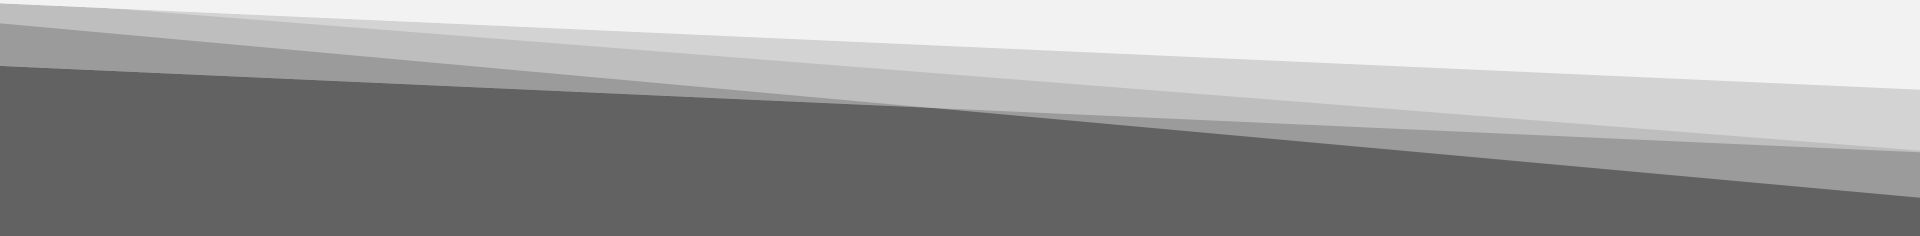
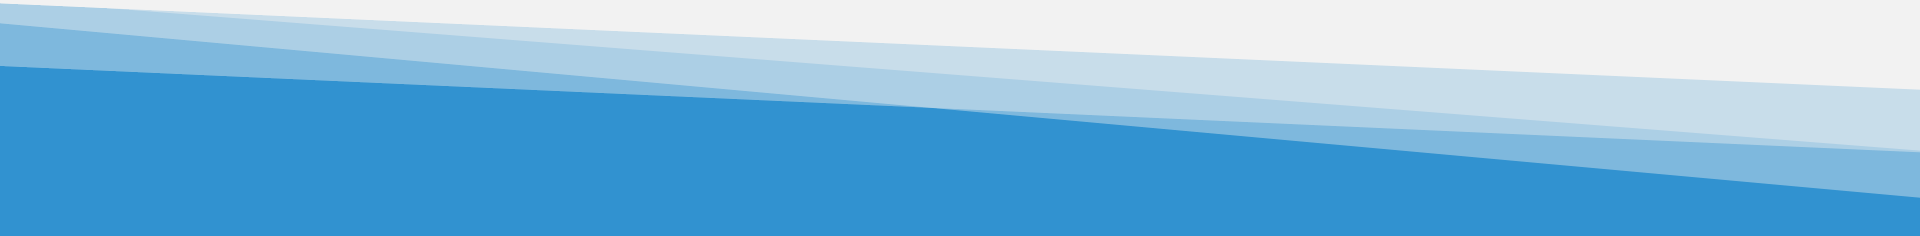
blue footer

diff --git a/css/style.css b/css/style.css
@@ -1,2 +1,2 @@
-@font-face{font-family:'ClanOT-Medium';font-weight:400;src:url("https://www.technologiestiftung-berlin.de/typo3conf/sites/tsb/css/fonts/clanot/clanot-medium-webfont.eot");src:url("https://www.technologiestiftung-berlin.de/typo3conf/sites/tsb/css/fonts/clanot/clanot-medium-webfont.eot?#iefix") format("embedded-opentype"),url("https://www.technologiestiftung-berlin.de/typo3conf/sites/tsb/css/fonts/clanot/clanot-medium-webfont.woff") format("woff"),url("https://www.technologiestiftung-berlin.de/typo3conf/sites/tsb/css/fonts/clanot/clanot-medium-webfont.ttf") format("truetype"),url("https://www.technologiestiftung-berlin.de/typo3conf/sites/tsb/css/fonts/clanot/clanot-medium-webfont.svg#clanot_medium") format("svg")}/*! minireset.css v0.0.3 | MIT License | github.com/jgthms/minireset.css */html,body,p,ol,ul,li,dl,dt,dd,blockquote,figure,fieldset,legend,textarea,pre,iframe,hr,h1,h2,h3,h4,h5,h6{margin:0;padding:0}h1,h2,h3,h4,h5,h6{font-size:100%;font-weight:normal}ul{list-style:none}button,input,select,textarea{margin:0}html{box-sizing:border-box}*,*:before,*:after{box-sizing:inherit}img,embed,object,audio,video{height:auto;max-width:100%}iframe{border:0}table{border-collapse:collapse;border-spacing:0}td,th{padding:0;text-align:left}body{background-color:#F2F2F2}#tsb-ani-logo path,#tsb-ani-logo line{fill:transparent;opacity:1;stroke-width:6px;stroke-linejoin:round;stroke-linecap:round}#tsb-ani-logo path{stroke:transparent}#tsb-ani-logo .edge{stroke:#6ECDF5}#tsb-ani-logo .hedge{stroke:#E60433}#minilogo #tsb-ani-logo path,#tsb-ani-logo line{stroke-width:3px}#teaser{width:100%;background-color:#fff;background-image:url("../images/top_bg.png");background-position:center 250px;background-repeat:no-repeat;padding-top:50px;overflow:visible}#logo{width:100%;text-align:center}#logo svg{width:100%;max-width:440px;margin:0 auto;height:auto}#teaser-text{width:80%;max-width:600px;margin:0 auto}@media (min-width: 768px){#logo{float:left;width:50%}#teaser-text{float:left;width:50%;margin:50px auto 0 auto}}@media (min-width: 1024px){#teaser-text{margin:100px auto 0 auto}}#teaser h1{font-family:'ClanOT-Medium', Helvetica, sans-serif;font-weight:400;font-size:24px;padding-bottom:15px}#teaser p{font-family:'Roboto Mono', monospace;font-size:20px;display:block;max-width:500px}#teaser p.hashtags{padding-top:20px;font-style:italic;font-weight:bold}.container{width:90%;max-width:1200px;margin:0 auto;clear:both}.container.small{max-width:768px}.container.center{text-align:center}.p-bottom{padding-bottom:40px}.p-top{padding-top:40px}.p-d-bottom{padding-bottom:80px}.p-d-top{padding-top:80px}@media (min-width: 768px){#teaser p{font-size:24px}}@media (min-width: 1025px){h1{padding-left:25px}#teaser p{font-size:26px;line-height:34px}}#nav ul{padding-top:20px;float:right}#nav li{float:left;padding:0 20px 0 0}#nav a{font-family:'Roboto Mono', monospace;font-style:italic;font-size:14px;text-decoration:underline;color:#000}#nav a:hover{text-decoration:none}#nav li.lang{border-left:1px solid #999;padding-left:20px}#projects{clear:both;padding-top:100px}#filter-list{display:block;width:100%;text-align:center;padding:40px 0 10px 0;line-height:40px}#filter-list li{display:inline-block}.button{border:1px solid #1e3791;border-radius:10px;padding:5px 10px;font-family:'Roboto Mono', monospace;font-style:italic;font-size:14px;text-decoration:none;cursor:pointer;color:#1e3791;margin:0 5px}.button:hover{background-color:#1e3791;color:#DEE3F7}#project-list{clear:both;width:100%}#project-list li{display:block;width:90%;max-width:400px;margin:40px auto 0 auto}#project-list a{font-family:'Roboto Mono', monospace;color:#000;text-decoration:none;display:block;background-color:#fff;border-bottom-right-radius:5px;border-bottom-left-radius:5px;-webkit-box-shadow:0px 0px 10px 0px rgba(0,0,0,0.3);-moz-box-shadow:0px 0px 10px 0px rgba(0,0,0,0.3);box-shadow:0px 0px 10px 0px rgba(0,0,0,0.3);cursor:pointer}#project-list a:hover{-webkit-box-shadow:0px 0px 2px 0px rgba(0,0,0,0.5);-moz-box-shadow:0px 0px 2px 0px rgba(0,0,0,0.5);box-shadow:0px 0px 2px 0px rgba(0,0,0,0.5);color:rgba(0,0,0,0.7)}#project-list a:hover img{-webkit-filter:grayscale(100%);filter:grayscale(100%)}#project-list .title{font-family:'ClanOT-Medium', Helvetica, sans-serif;font-weight:400;font-size:22px;display:block;padding:10px 15px 5px 15px;clear:both}#project-list .subtitle{display:block;font-size:14px;padding:0 15px 20px 15px}#project-list .date{display:block;padding:4px 15px 0 0;font-size:12px;float:right}#project-list img{width:100%;height:auto;margin-bottom:5px}.button.tag{font-size:12px;padding:2px 8px 3px 8px;margin-left:15px;background-color:#1e3791;border:none;color:#DEE3F7}.project .button.tag{cursor:auto}#project-list a:hover .button.tag{background-color:rgba(0,0,0,0.7);color:#fff}@media (min-width: 768px){#project-list li{float:left;width:40%;margin:40px 5% 0 5%}#project-list li.two-break{clear:both}}@media (min-width: 1024px){#project-list li{margin:40px 3% 0 3%;width:27.3%}#project-list li.two-break{clear:none}#project-list li.three-break{clear:both}}#team{clear:both;padding-top:100px;padding-bottom:100px;max-width:768px}h2{font-family:'ClanOT-Medium', Helvetica, sans-serif;font-weight:400;font-size:28px;font-style:italic;display:block;text-align:center}#footer{width:100%;background-image:url("../images/bottom_bg.png");background-position:center top;background-repeat:no-repeat;padding-top:200px;padding-bottom:20px;overflow:visible;background-color:#626262;font-family:'Roboto Mono', monospace;font-size:13px;color:#fff}#footer a{color:#fff;text-decoration:none}#footer a:hover{text-decoration:underline}#footer .container>a img,#footer .contact-meta,#footer .contact-social{display:block;margin:0 auto;max-width:90%;text-align:center;margin-bottom:30px}#footer .contact-meta{margin-bottom:50px}#footer .contact-social a:hover{opacity:0.5}#footer .contact-social a:first-child{margin-right:20px}@media (min-width: 768px){#footer{height:400px;padding-bottom:0}#footer .container>a img,#footer .contact-meta{float:left;margin-right:30px;text-align:left}#footer .contact-meta{padding-top:23px;padding-left:20px}#footer .contact-social{clear:both}}@media (min-width: 920px){#footer .contact-social{padding-top:50px;padding-left:15px;float:left;clear:none;margin-right:30px;text-align:left}}hr.clear{height:1px;width:100%;clear:both;visibility:hidden}.ben img,.seb-m img,.seb-r img{width:105px;height:auto}.unicorn img{width:250px;height:auto;margin-left:-74px;margin-top:-20px}#team .contact,#team img{float:left}#team h3{font-family:'Kalam', sans-serif;font-weight:700;font-size:30px;padding-top:100px;margin-left:-40px;float:left;text-shadow:1px 1px #fff, -1px -1px #fff, 1px -1px #fff, -1px 1px #fff;color:#e60032}#team .ben h3{margin-left:-80px}#team .unicorn h3{padding-top:10px}#team .unicorn p{clear:both;padding-top:50px}#team a,#team p{text-decoration:none;color:#000;font-family:'Roboto Mono', monospace;font-size:13px}#team a{font-style:italic}#team a:hover{text-decoration:underline}#team p{padding-left:10px}#team-list li{width:90%;clear:both;max-width:400px;margin:0 auto;padding-top:50px}@media (min-width: 438px){#team .unicorn p{clear:none;float:left;padding-top:60px;width:180px;margin-left:-50px}}@media (min-width: 774px){#team .unicorn p{width:225px}}@media (min-width: 769px){#team-list li{clear:none;float:left;width:50%}#team-list li.two-break{clear:both}}#end{background-color:#111;color:#eee;font-family:'Roboto Mono', monospace;font-size:13px;line-height:24px;padding-bottom:24px}#end a{color:#eee;text-decoration:none}#end a:hover{text-decoration:underline}#end>div{padding:20px 0 0 0;text-align:center}@media (min-width: 768px){#end{height:70px}#end .left{text-align:left;float:left}#end .right{text-align:right;float:right}}#page-head{background-color:#fff;min-height:40px}#page-head .left{float:left}#page-head .left a{margin-top:22px;float:left;margin-left:10px}#page-head .right{clear:both;display:block;text-align:center}#page-head .right a{text-decoration:underline}#page-head .right a:hover{text-decoration:none}#page-head a{font-family:'Roboto Mono', monospace;font-style:italic;font-size:14px;text-decoration:none;color:#000}#page-head a:hover{text-decoration:underline}@media (min-width: 670px){#page-head .right{text-align:right;clear:none;float:right}}#minilogo{float:left;margin-top:-20px}#title{width:100%;background-color:#fff;background-image:url(../images/top_bg.png);background-position:center top;background-repeat:no-repeat;padding-top:70px}#title .container{text-align:center}#title h1{font-family:'ClanOT-Medium', Helvetica, sans-serif;font-weight:400;font-size:24px;text-align:center;padding-top:10px;padding-bottom:15px}#title .title-subline{font-family:'Roboto Mono', monospace;font-size:14px;display:block;text-align:center;padding-bottom:30px}#title .title-subline a{color:#000;text-decoration:none;font-style:italic}#title .title-subline a:hover{text-decoration:underline}pre{display:block;padding:30px;background-color:#fff;border:1px solid rgba(0,0,0,0.1)}pre[class*="language-"]{background-color:#fff}#github{font-family:'Roboto Mono', monospace;display:inline-block;max-width:100%;border-radius:10px;border:1px solid rgba(0,0,0,0.1);background-color:rgba(0,0,0,0.05);margin:40px auto 40px auto;text-align:left;text-decoration:none;color:#000;overflow:hidden}#github img{margin:20px 0 20px 20px;float:left}#github:hover{background-color:rgba(0,0,0,0.025);border:1px solid rgba(0,0,0,0.3);cursor:pointer}.github-title{display:inline-block;padding:17px 20px 0 20px;font-size:20px}.github-subline{font-size:14px;font-style:italic;padding:0 0 10px 20px}p.copy{max-width:700px;margin:0 auto;font-family:'Barlow', sans-serif;font-size:16px;line-height:24px}p.copy a{text-decoration:none;font-weight:bold;color:#1e3791}p.copy a:hover{text-decoration:underline}pre code{font-size:14px}@media (min-width: 768px){p.copy{font-size:20px;line-height:30px}pre code{font-size:16px}}blockquote{font-family:'Roboto Mono', monospace;max-width:700px;margin:0 auto;padding:20px 0}blockquote p{font-size:24px}blockquote .author{display:block;font-size:18px;font-style:italic;padding:10px 0 0 20px}blockquote.center{text-align:center}.special-section{-webkit-box-shadow:0px 0px 10px 0px rgba(0,0,0,0.2);-moz-box-shadow:0px 0px 10px 0px rgba(0,0,0,0.2);box-shadow:0px 0px 10px 0px rgba(0,0,0,0.2);background-color:#fff;padding:20px 0;margin:20px 0 40px 0}.embed{text-align:center}.embed iframe{margin:0 auto;max-width:100%}img.responsive{width:100%;height:auto}p.caption{font-family:'Roboto Mono', monospace;font-size:12px;text-align:center;padding-top:4px}#page-nav ul{padding-top:20px;float:right}#page-nav li{float:left;padding:0 20px 0 0}#page-nav li.lang{border-left:1px solid #999;padding-left:20px}#page-nav span{font-family:'Roboto Mono', monospace;font-size:14px;line-height:0}.gallery{width:100%}.gallery li{display:block;text-align:center;margin:0 auto 20px auto}@media (min-width: 505px){.gallery{max-width:505px;margin:0 auto}.gallery li{float:left;max-width:242px;width:47%;margin-right:0}.gallery li.two-break{margin-right:6%;clear:both}}@media (min-width: 786px){.gallery{max-width:768px}.gallery li{max-width:242px;width:30%;margin-right:0;margin-left:5%}.gallery li.two-break{margin-left:5%;margin-right:0;clear:none}.gallery li.three-break.two-break{margin-left:0;clear:both}.gallery li.three-break{margin-left:0;clear:both}}#lightbox{position:fixed;top:0;left:0;width:100%;height:100%;background-color:rgba(255,255,255,0.8);text-align:center}#lightbox img{min-width:50px;min-height:50px;max-width:90%;max-height:90vh;background-position:center;background-image:url(../images/loading.gif);border:transparent;background-repeat:no-repeat;height:auto;width:auto}#lightbox .outer{display:table;position:absolute;height:100%;width:100%}#lightbox .middle{display:table-cell;vertical-align:middle;max-width:100%;max-height:100%}#lightbox .inner{text-align:center;margin-left:auto;margin-right:auto;width:100%}#lghtbx-close{display:block;position:fixed;top:10px;right:10px;text-indent:2000px;color:transparent;overflow:hidden;width:20px;height:19px;background-image:url("../images/lightbox-close@2x.png");background-size:40px 19px;background-repeat:no-repeat;background-position:left}#lghtbx-close:hover{background-position:right;cursor:pointer}#lghtbx-subline{position:fixed;bottom:0;left:0;width:100%;text-align:center}#lghtbx-subline span{display:inline-block;padding:5px 10px 10px 10px;background-color:#fff;font-family:'Roboto Mono', monospace;font-size:14px}#lghtbx-next,#lghtbx-prev{cursor:pointer;background-repeat:no-repeat;display:block;position:fixed;top:50%;margin-top:-24.5px;width:27px;height:49px;background-size:54px 49px}#lghtbx-next{right:10px;background-position:right;background-image:url(../images/lightbox-next@2x.png)}#lghtbx-next:hover,#lghtbx-next.inactive{background-position:left}#lghtbx-prev{left:10px;background-position:left;background-image:url(../images/lightbox-prev@2x.png)}#lghtbx-prev:hover,#lghtbx-prev.inactive{background-position:right}hr.divider{width:100%;clear:both;border:transparent;height:17px;background-position:center;background-image:url(../images/divider.png);background-repeat:no-repeat;margin:20px 0}hr.divider.small{max-width:768px;margin:20px auto}.project main h2{text-align:left;font-style:normal;font-family:'ClanOT-Medium', Helvetica, sans-serif;font-weight:400;font-size:20px;display:block;max-width:700px;margin:0px auto}.project main h3{text-align:left;font-style:normal;font-family:'ClanOT-Medium', Helvetica, sans-serif;font-weight:400;font-size:16px;display:block;max-width:700px;margin:0px auto}.project main ul,.project main ol{max-width:700px;margin:0px auto;font-family:'Roboto Mono', monospace;font-size:14px;line-height:24px}.project main ul{list-style-type:circle}.download-list ul,.download-list li{list-style:none}.download-list li{width:100%;clear:both}.download-list li a{color:#000;text-decoration:none}.download-list li a:hover{color:#979797}.download-list li a:hover .download-icon{background-position:right}.download-icon{background-image:url(../images/download.png);background-size:54px 42px;background-repeat:no-repeat;background-position:left;width:27px;height:42px;float:left;display:inline-block;margin:7px 20px 20px 0}.download-title{font-weight:bold;font-size:18px}.download-subtitle{font-size:14px}@media (min-width: 768px){.download-list li{clear:none;float:left;width:45%;margin-left:2.5%;margin-right:2.5%}.project main ul,.project main ol{font-size:18px;line-height:28px}}#author{text-align:center}#author img{margin-bottom:20px}#author a{color:#000;text-decoration:underline}#author a:hover{text-decoration:none}#author h3{color:#555;padding-bottom:3px}#author h2,#author h3{text-align:center}#author p{padding-top:20px;text-align:left;font-family:'Roboto Mono', monospace;font-size:14px;line-height:24px}@media (min-width: 786px){#author h2,#author h3{text-align:left}#author img{float:left;margin-right:20px}}
+@font-face{font-family:'ClanOT-Medium';font-weight:400;src:url("https://www.technologiestiftung-berlin.de/typo3conf/sites/tsb/css/fonts/clanot/clanot-medium-webfont.eot");src:url("https://www.technologiestiftung-berlin.de/typo3conf/sites/tsb/css/fonts/clanot/clanot-medium-webfont.eot?#iefix") format("embedded-opentype"),url("https://www.technologiestiftung-berlin.de/typo3conf/sites/tsb/css/fonts/clanot/clanot-medium-webfont.woff") format("woff"),url("https://www.technologiestiftung-berlin.de/typo3conf/sites/tsb/css/fonts/clanot/clanot-medium-webfont.ttf") format("truetype"),url("https://www.technologiestiftung-berlin.de/typo3conf/sites/tsb/css/fonts/clanot/clanot-medium-webfont.svg#clanot_medium") format("svg")}/*! minireset.css v0.0.3 | MIT License | github.com/jgthms/minireset.css */html,body,p,ol,ul,li,dl,dt,dd,blockquote,figure,fieldset,legend,textarea,pre,iframe,hr,h1,h2,h3,h4,h5,h6{margin:0;padding:0}h1,h2,h3,h4,h5,h6{font-size:100%;font-weight:normal}ul{list-style:none}button,input,select,textarea{margin:0}html{box-sizing:border-box}*,*:before,*:after{box-sizing:inherit}img,embed,object,audio,video{height:auto;max-width:100%}iframe{border:0}table{border-collapse:collapse;border-spacing:0}td,th{padding:0;text-align:left}body{background-color:#F2F2F2}#tsb-ani-logo path,#tsb-ani-logo line{fill:transparent;opacity:1;stroke-width:6px;stroke-linejoin:round;stroke-linecap:round}#tsb-ani-logo path{stroke:transparent}#tsb-ani-logo .edge{stroke:#6ECDF5}#tsb-ani-logo .hedge{stroke:#E60433}#minilogo #tsb-ani-logo path,#tsb-ani-logo line{stroke-width:3px}#teaser{width:100%;background-color:#fff;background-image:url("../images/top_bg.png");background-position:center 250px;background-repeat:no-repeat;padding-top:50px;overflow:visible}#logo{width:100%;text-align:center}#logo svg{width:100%;max-width:440px;margin:0 auto;height:auto}#teaser-text{width:80%;max-width:600px;margin:0 auto}@media (min-width: 768px){#logo{float:left;width:50%}#teaser-text{float:left;width:50%;margin:50px auto 0 auto}}@media (min-width: 1024px){#teaser-text{margin:100px auto 0 auto}}#teaser h1{font-family:'ClanOT-Medium', Helvetica, sans-serif;font-weight:400;font-size:24px;padding-bottom:15px}#teaser p{font-family:'Roboto Mono', monospace;font-size:20px;display:block;max-width:500px}#teaser p.hashtags{padding-top:20px;font-style:italic;font-weight:bold}.container{width:90%;max-width:1200px;margin:0 auto;clear:both}.container.small{max-width:768px}.container.center{text-align:center}.p-bottom{padding-bottom:40px}.p-top{padding-top:40px}.p-d-bottom{padding-bottom:80px}.p-d-top{padding-top:80px}@media (min-width: 768px){#teaser p{font-size:24px}}@media (min-width: 1025px){h1{padding-left:25px}#teaser p{font-size:26px;line-height:34px}}#nav ul{padding-top:20px;float:right}#nav li{float:left;padding:0 20px 0 0}#nav a{font-family:'Roboto Mono', monospace;font-style:italic;font-size:14px;text-decoration:underline;color:#000}#nav a:hover{text-decoration:none}#nav li.lang{border-left:1px solid #999;padding-left:20px}#projects{clear:both;padding-top:100px}#filter-list{display:block;width:100%;text-align:center;padding:40px 0 10px 0;line-height:40px}#filter-list li{display:inline-block}.button{border:1px solid #1e3791;border-radius:10px;padding:5px 10px;font-family:'Roboto Mono', monospace;font-style:italic;font-size:14px;text-decoration:none;cursor:pointer;color:#1e3791;margin:0 5px}.button:hover{background-color:#1e3791;color:#DEE3F7}#project-list{clear:both;width:100%}#project-list li{display:block;width:90%;max-width:400px;margin:40px auto 0 auto}#project-list a{font-family:'Roboto Mono', monospace;color:#000;text-decoration:none;display:block;background-color:#fff;border-bottom-right-radius:5px;border-bottom-left-radius:5px;-webkit-box-shadow:0px 0px 10px 0px rgba(0,0,0,0.3);-moz-box-shadow:0px 0px 10px 0px rgba(0,0,0,0.3);box-shadow:0px 0px 10px 0px rgba(0,0,0,0.3);cursor:pointer}#project-list a:hover{-webkit-box-shadow:0px 0px 2px 0px rgba(0,0,0,0.5);-moz-box-shadow:0px 0px 2px 0px rgba(0,0,0,0.5);box-shadow:0px 0px 2px 0px rgba(0,0,0,0.5);color:rgba(0,0,0,0.7)}#project-list a:hover img{-webkit-filter:grayscale(100%);filter:grayscale(100%)}#project-list .title{font-family:'ClanOT-Medium', Helvetica, sans-serif;font-weight:400;font-size:22px;display:block;padding:10px 15px 5px 15px;clear:both}#project-list .subtitle{display:block;font-size:14px;padding:0 15px 20px 15px}#project-list .date{display:block;padding:4px 15px 0 0;font-size:12px;float:right}#project-list img{width:100%;height:auto;margin-bottom:5px}.button.tag{font-size:12px;padding:2px 8px 3px 8px;margin-left:15px;background-color:#1e3791;border:none;color:#DEE3F7}.project .button.tag{cursor:auto}#project-list a:hover .button.tag{background-color:rgba(0,0,0,0.7);color:#fff}@media (min-width: 768px){#project-list li{float:left;width:40%;margin:40px 5% 0 5%}#project-list li.two-break{clear:both}}@media (min-width: 1024px){#project-list li{margin:40px 3% 0 3%;width:27.3%}#project-list li.two-break{clear:none}#project-list li.three-break{clear:both}}#team{clear:both;padding-top:100px;padding-bottom:100px;max-width:768px}h2{font-family:'ClanOT-Medium', Helvetica, sans-serif;font-weight:400;font-size:28px;font-style:italic;display:block;text-align:center}#footer{width:100%;background-image:url("../images/bottom_bg.png");background-position:center top;background-repeat:no-repeat;padding-top:200px;padding-bottom:20px;overflow:visible;background-color:#3192d0;font-family:'Roboto Mono', monospace;font-size:13px;color:#fff}#footer a{color:#fff;text-decoration:none}#footer a:hover{text-decoration:underline}#footer .container>a img,#footer .contact-meta,#footer .contact-social{display:block;margin:0 auto;max-width:90%;text-align:center;margin-bottom:30px}#footer .contact-meta{margin-bottom:50px}#footer .contact-social a:hover{opacity:0.5}#footer .contact-social a:first-child{margin-right:20px}@media (min-width: 768px){#footer{height:400px;padding-bottom:0}#footer .container>a img,#footer .contact-meta{float:left;margin-right:30px;text-align:left}#footer .contact-meta{padding-top:23px;padding-left:20px}#footer .contact-social{clear:both}}@media (min-width: 920px){#footer .contact-social{padding-top:50px;padding-left:15px;float:left;clear:none;margin-right:30px;text-align:left}}hr.clear{height:1px;width:100%;clear:both;visibility:hidden}.ben img,.seb-m img,.seb-r img{width:105px;height:auto}.unicorn img{width:250px;height:auto;margin-left:-74px;margin-top:-20px}#team .contact,#team img{float:left}#team h3{font-family:'Kalam', sans-serif;font-weight:700;font-size:30px;padding-top:100px;margin-left:-40px;float:left;text-shadow:1px 1px #fff, -1px -1px #fff, 1px -1px #fff, -1px 1px #fff;color:#e60032}#team .ben h3{margin-left:-80px}#team .unicorn h3{padding-top:10px}#team .unicorn p{clear:both;padding-top:50px}#team a,#team p{text-decoration:none;color:#000;font-family:'Roboto Mono', monospace;font-size:13px}#team a{font-style:italic}#team a:hover{text-decoration:underline}#team p{padding-left:10px}#team-list li{width:90%;clear:both;max-width:400px;margin:0 auto;padding-top:50px}@media (min-width: 438px){#team .unicorn p{clear:none;float:left;padding-top:60px;width:180px;margin-left:-50px}}@media (min-width: 774px){#team .unicorn p{width:225px}}@media (min-width: 769px){#team-list li{clear:none;float:left;width:50%}#team-list li.two-break{clear:both}}#end{background-color:#213a8f;color:#eee;font-family:'Roboto Mono', monospace;font-size:13px;line-height:24px;padding-bottom:24px}#end a{color:#eee;text-decoration:none}#end a:hover{text-decoration:underline}#end>div{padding:20px 0 0 0;text-align:center}@media (min-width: 768px){#end{height:70px}#end .left{text-align:left;float:left}#end .right{text-align:right;float:right}}#page-head{background-color:#fff;min-height:40px}#page-head .left{float:left}#page-head .left a{margin-top:22px;float:left;margin-left:10px}#page-head .right{clear:both;display:block;text-align:center}#page-head .right a{text-decoration:underline}#page-head .right a:hover{text-decoration:none}#page-head a{font-family:'Roboto Mono', monospace;font-style:italic;font-size:14px;text-decoration:none;color:#000}#page-head a:hover{text-decoration:underline}@media (min-width: 670px){#page-head .right{text-align:right;clear:none;float:right}}#minilogo{float:left;margin-top:-20px}#title{width:100%;background-color:#fff;background-image:url(../images/top_bg.png);background-position:center top;background-repeat:no-repeat;padding-top:70px}#title .container{text-align:center}#title h1{font-family:'ClanOT-Medium', Helvetica, sans-serif;font-weight:400;font-size:24px;text-align:center;padding-top:10px;padding-bottom:15px}#title .title-subline{font-family:'Roboto Mono', monospace;font-size:14px;display:block;text-align:center;padding-bottom:30px}#title .title-subline a{color:#000;text-decoration:none;font-style:italic}#title .title-subline a:hover{text-decoration:underline}pre{display:block;padding:30px;background-color:#fff;border:1px solid rgba(0,0,0,0.1)}pre[class*="language-"]{background-color:#fff}#github{font-family:'Roboto Mono', monospace;display:inline-block;max-width:100%;border-radius:10px;border:1px solid rgba(0,0,0,0.1);background-color:rgba(0,0,0,0.05);margin:40px auto 40px auto;text-align:left;text-decoration:none;color:#000;overflow:hidden}#github img{margin:20px 0 20px 20px;float:left}#github:hover{background-color:rgba(0,0,0,0.025);border:1px solid rgba(0,0,0,0.3);cursor:pointer}.github-title{display:inline-block;padding:17px 20px 0 20px;font-size:20px}.github-subline{font-size:14px;font-style:italic;padding:0 0 10px 20px}p.copy{max-width:700px;margin:0 auto;font-family:'Barlow', sans-serif;font-size:16px;line-height:24px}p.copy a{text-decoration:none;font-weight:bold;color:#1e3791}p.copy a:hover{text-decoration:underline}pre code{font-size:14px}@media (min-width: 768px){p.copy{font-size:20px;line-height:30px}pre code{font-size:16px}}blockquote{font-family:'Roboto Mono', monospace;max-width:700px;margin:0 auto;padding:20px 0}blockquote p{font-size:24px}blockquote .author{display:block;font-size:18px;font-style:italic;padding:10px 0 0 20px}blockquote.center{text-align:center}.special-section{-webkit-box-shadow:0px 0px 10px 0px rgba(0,0,0,0.2);-moz-box-shadow:0px 0px 10px 0px rgba(0,0,0,0.2);box-shadow:0px 0px 10px 0px rgba(0,0,0,0.2);background-color:#fff;padding:20px 0;margin:20px 0 40px 0}.embed{text-align:center}.embed iframe{margin:0 auto;max-width:100%}img.responsive{width:100%;height:auto}p.caption{font-family:'Roboto Mono', monospace;font-size:12px;text-align:center;padding-top:4px}#page-nav ul{padding-top:20px;float:right}#page-nav li{float:left;padding:0 20px 0 0}#page-nav li.lang{border-left:1px solid #999;padding-left:20px}#page-nav span{font-family:'Roboto Mono', monospace;font-size:14px;line-height:0}.gallery{width:100%}.gallery li{display:block;text-align:center;margin:0 auto 20px auto}@media (min-width: 505px){.gallery{max-width:505px;margin:0 auto}.gallery li{float:left;max-width:242px;width:47%;margin-right:0}.gallery li.two-break{margin-right:6%;clear:both}}@media (min-width: 786px){.gallery{max-width:768px}.gallery li{max-width:242px;width:30%;margin-right:0;margin-left:5%}.gallery li.two-break{margin-left:5%;margin-right:0;clear:none}.gallery li.three-break.two-break{margin-left:0;clear:both}.gallery li.three-break{margin-left:0;clear:both}}#lightbox{position:fixed;top:0;left:0;width:100%;height:100%;background-color:rgba(255,255,255,0.8);text-align:center}#lightbox img{min-width:50px;min-height:50px;max-width:90%;max-height:90vh;background-position:center;background-image:url(../images/loading.gif);border:transparent;background-repeat:no-repeat;height:auto;width:auto}#lightbox .outer{display:table;position:absolute;height:100%;width:100%}#lightbox .middle{display:table-cell;vertical-align:middle;max-width:100%;max-height:100%}#lightbox .inner{text-align:center;margin-left:auto;margin-right:auto;width:100%}#lghtbx-close{display:block;position:fixed;top:10px;right:10px;text-indent:2000px;color:transparent;overflow:hidden;width:20px;height:19px;background-image:url("../images/lightbox-close@2x.png");background-size:40px 19px;background-repeat:no-repeat;background-position:left}#lghtbx-close:hover{background-position:right;cursor:pointer}#lghtbx-subline{position:fixed;bottom:0;left:0;width:100%;text-align:center}#lghtbx-subline span{display:inline-block;padding:5px 10px 10px 10px;background-color:#fff;font-family:'Roboto Mono', monospace;font-size:14px}#lghtbx-next,#lghtbx-prev{cursor:pointer;background-repeat:no-repeat;display:block;position:fixed;top:50%;margin-top:-24.5px;width:27px;height:49px;background-size:54px 49px}#lghtbx-next{right:10px;background-position:right;background-image:url(../images/lightbox-next@2x.png)}#lghtbx-next:hover,#lghtbx-next.inactive{background-position:left}#lghtbx-prev{left:10px;background-position:left;background-image:url(../images/lightbox-prev@2x.png)}#lghtbx-prev:hover,#lghtbx-prev.inactive{background-position:right}hr.divider{width:100%;clear:both;border:transparent;height:17px;background-position:center;background-image:url(../images/divider.png);background-repeat:no-repeat;margin:20px 0}hr.divider.small{max-width:768px;margin:20px auto}.project main h2{text-align:left;font-style:normal;font-family:'ClanOT-Medium', Helvetica, sans-serif;font-weight:400;font-size:20px;display:block;max-width:700px;margin:0px auto}.project main h3{text-align:left;font-style:normal;font-family:'ClanOT-Medium', Helvetica, sans-serif;font-weight:400;font-size:16px;display:block;max-width:700px;margin:0px auto}.project main ul,.project main ol{max-width:700px;margin:0px auto;font-family:'Roboto Mono', monospace;font-size:14px;line-height:24px}.project main ul{list-style-type:circle}.download-list ul,.download-list li{list-style:none}.download-list li{width:100%;clear:both}.download-list li a{color:#000;text-decoration:none}.download-list li a:hover{color:#979797}.download-list li a:hover .download-icon{background-position:right}.download-icon{background-image:url(../images/download.png);background-size:54px 42px;background-repeat:no-repeat;background-position:left;width:27px;height:42px;float:left;display:inline-block;margin:7px 20px 20px 0}.download-title{font-weight:bold;font-size:18px}.download-subtitle{font-size:14px}@media (min-width: 768px){.download-list li{clear:none;float:left;width:45%;margin-left:2.5%;margin-right:2.5%}.project main ul,.project main ol{font-size:18px;line-height:28px}}#author{text-align:center}#author img{margin-bottom:20px}#author a{color:#000;text-decoration:underline}#author a:hover{text-decoration:none}#author h3{color:#555;padding-bottom:3px}#author h2,#author h3{text-align:center}#author p{padding-top:20px;text-align:left;font-family:'Roboto Mono', monospace;font-size:14px;line-height:24px}@media (min-width: 786px){#author h2,#author h3{text-align:left}#author img{float:left;margin-right:20px}}
 /*# sourceMappingURL=style.css.map */

diff --git a/css/style.scss b/css/style.scss
@@ -395,7 +395,7 @@ h2{
   padding-top:200px;
   padding-bottom:20px;
   overflow: visible;
-  background-color:#626262;
+  background-color:#3192d0;
   font-family: 'Roboto Mono', monospace;
   font-size:13px;
   color:#fff;
@@ -567,8 +567,8 @@ hr.clear{
 }
 
 #end{
-  background-color:#111;
-  color:#eee;
+  background-color:#213a8f;
+  color:#eee; 
   font-family: 'Roboto Mono', monospace;
   font-size:13px;
   line-height: 24px;
